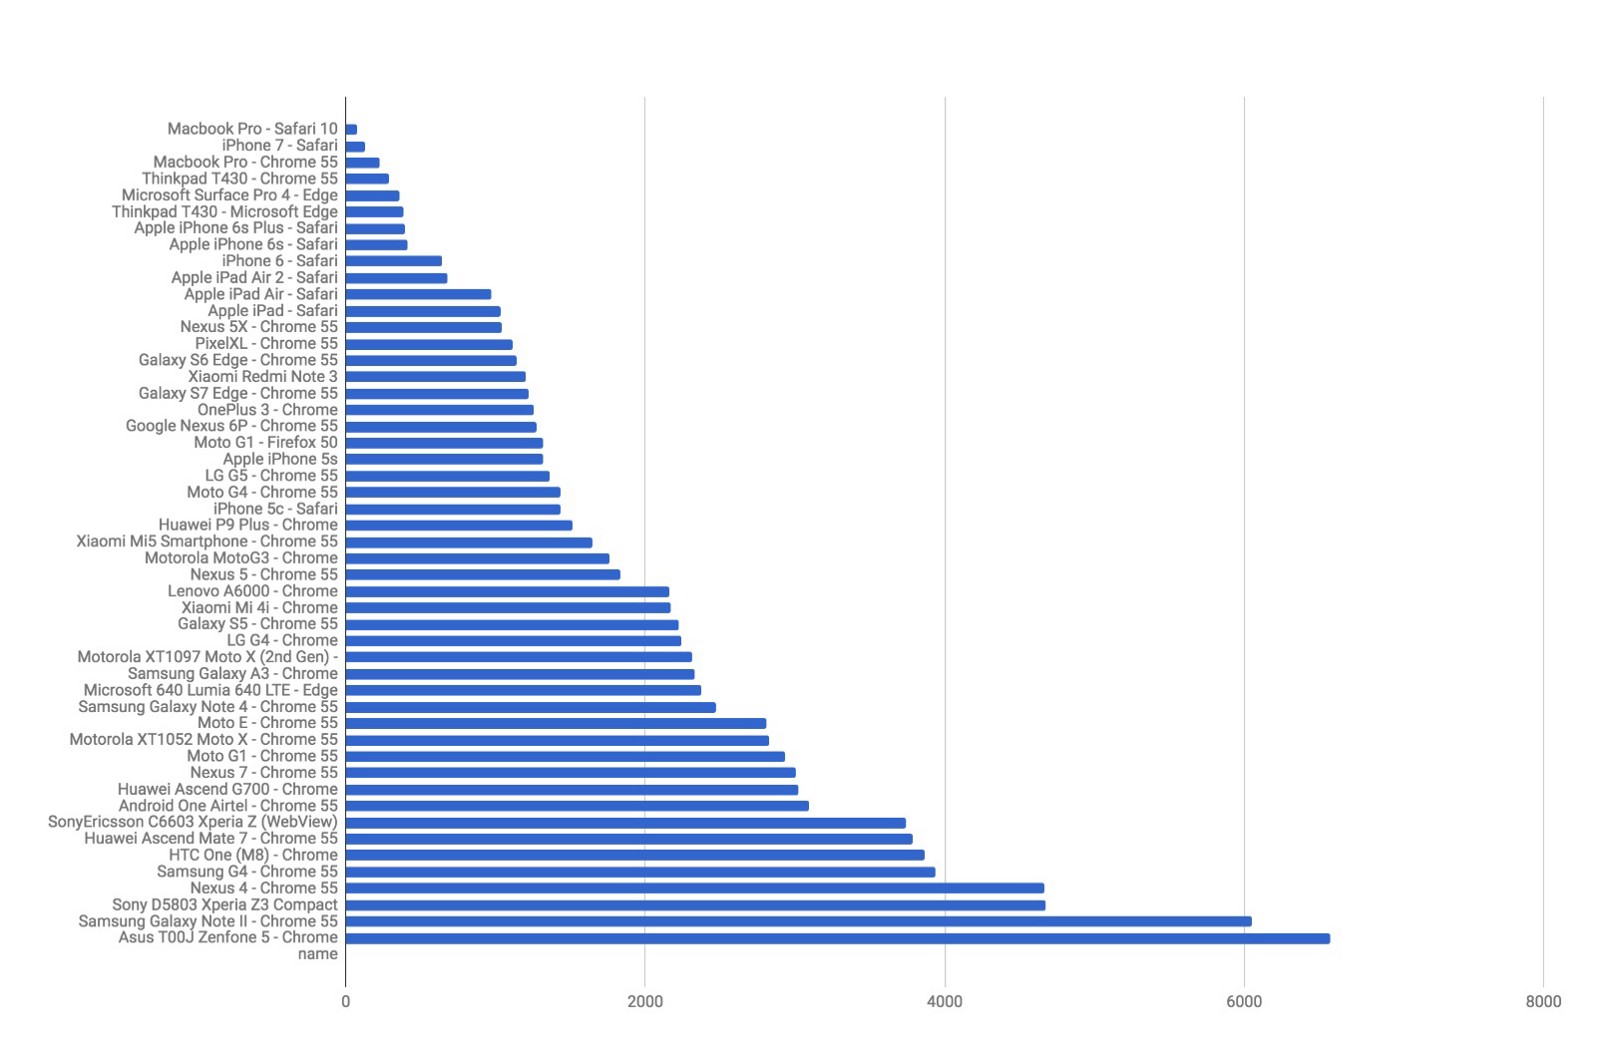
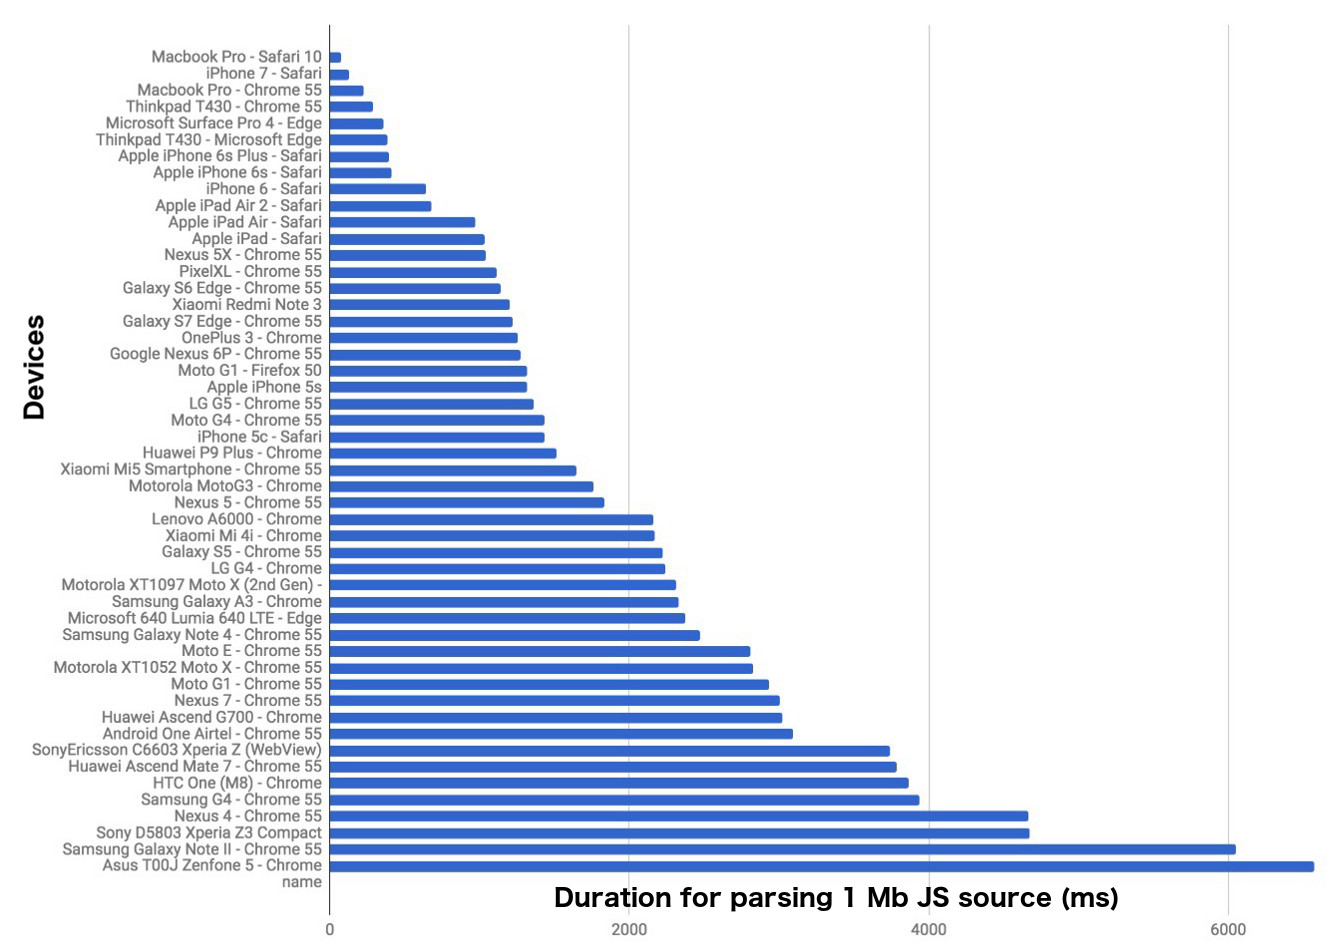
Tweaks

Changed region(s): [[0.0308, 0.0305, 0.9865, 1.0], [0.0, 0.3351, 0.0308, 0.4569]]

diff --git a/zoom-opalang.html b/zoom-opalang.html
@@ -248,9 +248,7 @@ blockquote {
 - privacy-aware type system;
 - client/server/db distribution mechanism;
 - CPS compilation;
-- mobility of closures;
-- distributed shared state mechanics;
-- concurrency model;
+- concurrency, distribution, mobility model;
 - security-at-site-borders guarantees;
 - closure-per-client security mechanics;
 - LLVM compilation;

diff --git a/talk.html b/talk.html
@@ -285,8 +285,6 @@ name: problem
 
 ## ...especially on mobile
 
-Parsing 1Mb of JavaScript:
-
 ![On mobile, things get up to 90x worse](img/mobile parsing times.jpeg)
 
 .small[Source: [Addy Osmani](https://medium.com/reloading/javascript-start-up-performance-69200f43b201), Google]

diff --git a/zoom-opalang.md b/zoom-opalang.md
@@ -10,9 +10,7 @@
 - privacy-aware type system;
 - client/server/db distribution mechanism;
 - CPS compilation;
-- mobility of closures;
-- distributed shared state mechanics;
-- concurrency model;
+- concurrency, distribution, mobility model;
 - security-at-site-borders guarantees;
 - closure-per-client security mechanics;
 - LLVM compilation;

diff --git a/talk.md b/talk.md
@@ -47,8 +47,6 @@ name: problem
 
 ## ...especially on mobile
 
-Parsing 1Mb of JavaScript:
-
 ![On mobile, things get up to 90x worse](img/mobile parsing times.jpeg)
 
 .small[Source: [Addy Osmani](https://medium.com/reloading/javascript-start-up-performance-69200f43b201), Google]
